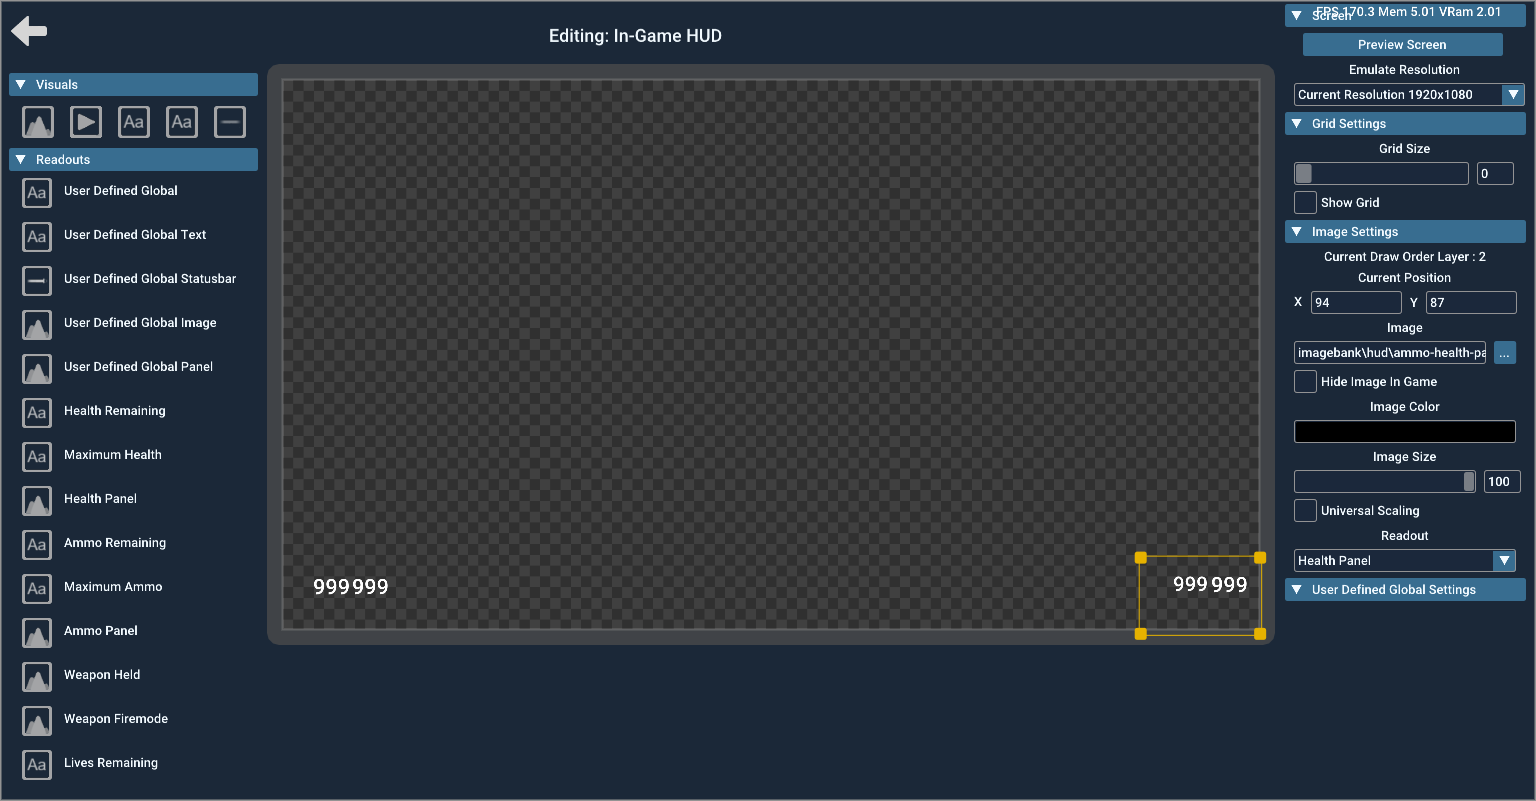
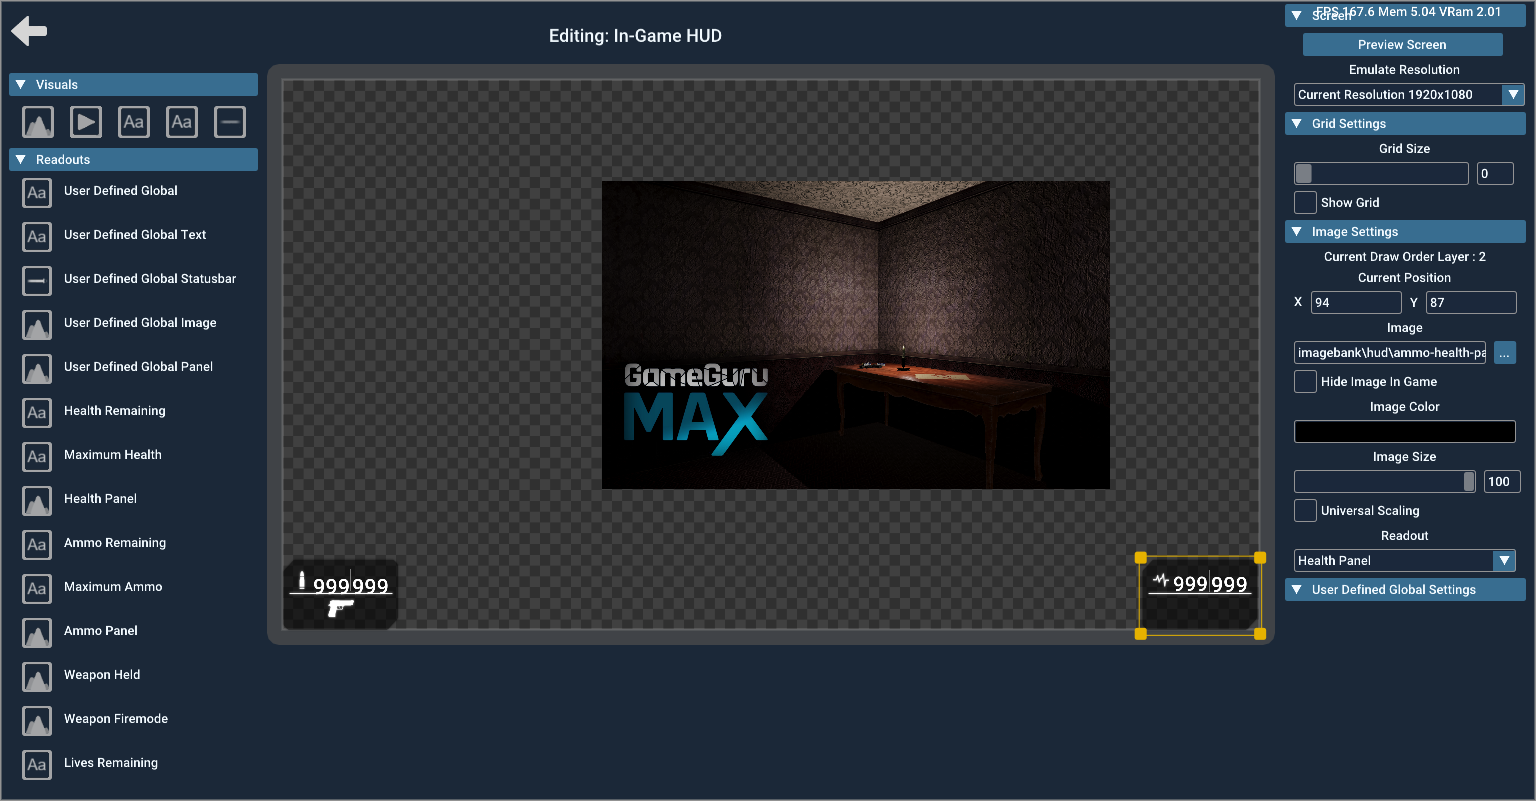
2.37: FIX no screen-editor image ever drew on DX12 (one-line, game side)
Reported as 'the image I add to the In-Game HUD does not appear'. HUD_DUMP
showed the widget as exist=YES 235x139 and the selection box was sized from
those dimensions, so the texture loaded fine and only the blit was missing.

Root cause: the draw is guarded by

    void* lpTexture = GetImagePointer(imgID);   // DX11-only
    if (lpTexture) { ... ImgBtn(imgID, ...); }

GetImagePointer (CImageC_part1.cpp:236) returns m_imgptr->lpTexture, the D3D11
texture object, always NULL on DX12. Only GetImagePointerView (:253-268) has the
DX12 bridge that lazily creates the texture via ImGui_DX12_GetOrLoadTexture.

The guard could therefore never pass - while the line it guards, ImgBtn(imgID,
...), takes the ID and resolves it through that same working bridge, which is
why the editor's own toolbar icons always rendered. The blit was never broken;
only the null-check in front of it was.

Switched to GetImagePointerView, which both tests correctly and warms the
texture. One line; GetImagePointer had exactly one caller game-wide.

Verified on TESTPRO2: images drawn on the HUD canvas 0/10 -> 11/11. The re-run
also restores the ammo/health panels and the about.png backdrop, which had only
ever shown their bare text - never reported, simply never seen working.

Changed region(s): [[0.375, 0.2185, 0.75, 0.6242], [0.7188, 0.6866, 0.8438, 0.8115], [0.1562, 0.6866, 0.2812, 0.8115]]

diff --git a/GameGuru Core/GameGuru/Source/M-GridEditB_part22.cpp b/GameGuru Core/GameGuru/Source/M-GridEditB_part22.cpp
@@ -1603,7 +1603,18 @@ int screen_editor(int nodeid, bool standalone, char *screen)
 						else
 						{
 							// Display Image
-							void* lpTexture = GetImagePointer(imgID);
+							// GGMAX 2.37: GetImagePointer is a DX11-ONLY accessor — it returns
+							// m_imgptr->lpTexture, the D3D11 texture object, which is ALWAYS NULL
+							// on DX12 (CImageC_part1.cpp:236). Only its sibling
+							// GetImagePointerView carries the DX12 bridge that lazily creates the
+							// texture via ImGui_DX12_GetOrLoadTexture (CImageC_part1.cpp:253-268).
+							// So this guard could never pass and no screen-editor image has ever
+							// drawn on DX12 — while the very next line, ImgBtn(imgID, ...), takes
+							// the ID and resolves it through that same working bridge, which is
+							// why the toolbar icons render fine. The blit was never broken; only
+							// the null-check in front of it was. Using the View accessor both
+							// tests correctly and warms the texture the blit is about to need.
+							void* lpTexture = (void*)GetImagePointerView(imgID);
 							if (lpTexture)
 							{
 								ImGui::SetCursorPos(vMonitorStart + widget_pos);

diff --git a/GameGuru Core/NIGHT_INVESTIGATIONS_2026-08-12.md b/GameGuru Core/NIGHT_INVESTIGATIONS_2026-08-12.md
@@ -1174,3 +1174,59 @@ weapon used, verified it in the editor, and reported it fixed — the in-game ha
 function reached by a different script. When wiring a cross-cutting notification like a cache
 invalidation, enumerate the *removal verbs* (`SetEntityCollected`, `Destroy`, editor delete) rather
 than the user-facing action, or the fix covers whichever one you happened to read first.
+
+---
+
+# §2.37 — No screen-editor image has EVER drawn on DX12 (one-line fix)
+
+User repro: add an image widget to the In-Game HUD, point it at
+`imagebank\hud\ammo-health-panel.png`, and the yellow selection box stays empty.
+
+## The measurement that reframed it
+
+`HUD_DUMP` reported the widget as **`exist=YES 235x139`** — the texture loads fine, and the
+selection box is even *sized* from those dimensions (`M-GridEditB_part22.cpp:938` only reads
+`ImageWidth/Height` when `ImageExist` passes). So the fault was never the path or the load; it was
+the blit. That split — loaded but not drawn — is what made this a five-minute read instead of a
+hunt.
+
+## Root cause: a DX11-only accessor used as the guard
+
+```cpp
+void* lpTexture = GetImagePointer(imgID);   // <-- always NULL on DX12
+if (lpTexture) { ... ImGui::ImgBtn(imgID, widget_size, ...); }
+```
+
+`GetImagePointer` (`CImageC_part1.cpp:236`) returns `m_imgptr->lpTexture`, the **D3D11 texture
+object**. Only its sibling `GetImagePointerView` (`:253-268`) carries the DX12 bridge that lazily
+creates the texture through `ImGui_DX12_GetOrLoadTexture`.
+
+So the guard could never pass. ★ And the irony: the line it guards, `ImgBtn(imgID, ...)`, takes the
+**ID** and resolves it through that same working bridge — which is exactly why the toolbar icons on
+the left of the screen editor have always rendered. **The blit was never broken; only the
+null-check in front of it was.**
+
+Fix — use the DX12-aware accessor, which both tests correctly and warms the texture the blit is
+about to need:
+
+```cpp
+void* lpTexture = (void*)GetImagePointerView(imgID);
+```
+
+One line, one site (`GetImagePointer` had exactly one caller in the whole game layer).
+
+## Verified, and much wider than the reported symptom
+
+| | images drawn on the HUD canvas |
+|---|---|
+| before | **0 of 10** |
+| after | **11 of 11** |
+
+The re-run shows the panel inside the selection box, *and* the ammo/health panels bottom-left and
+bottom-right that had only ever rendered their bare `999999` text, *and* the `about.png` backdrop.
+Nobody had reported those as broken — they were simply never seen working.
+
+★ **The lesson: a paired accessor where only ONE half got the DX12 bridge is a bug template, not a
+one-off.** `GetImagePointer` / `GetImagePointerView` differ by one word at the call site and by
+everything at runtime. Worth grepping the DX11 halves of any such pair when a "loaded but invisible"
+symptom appears.
